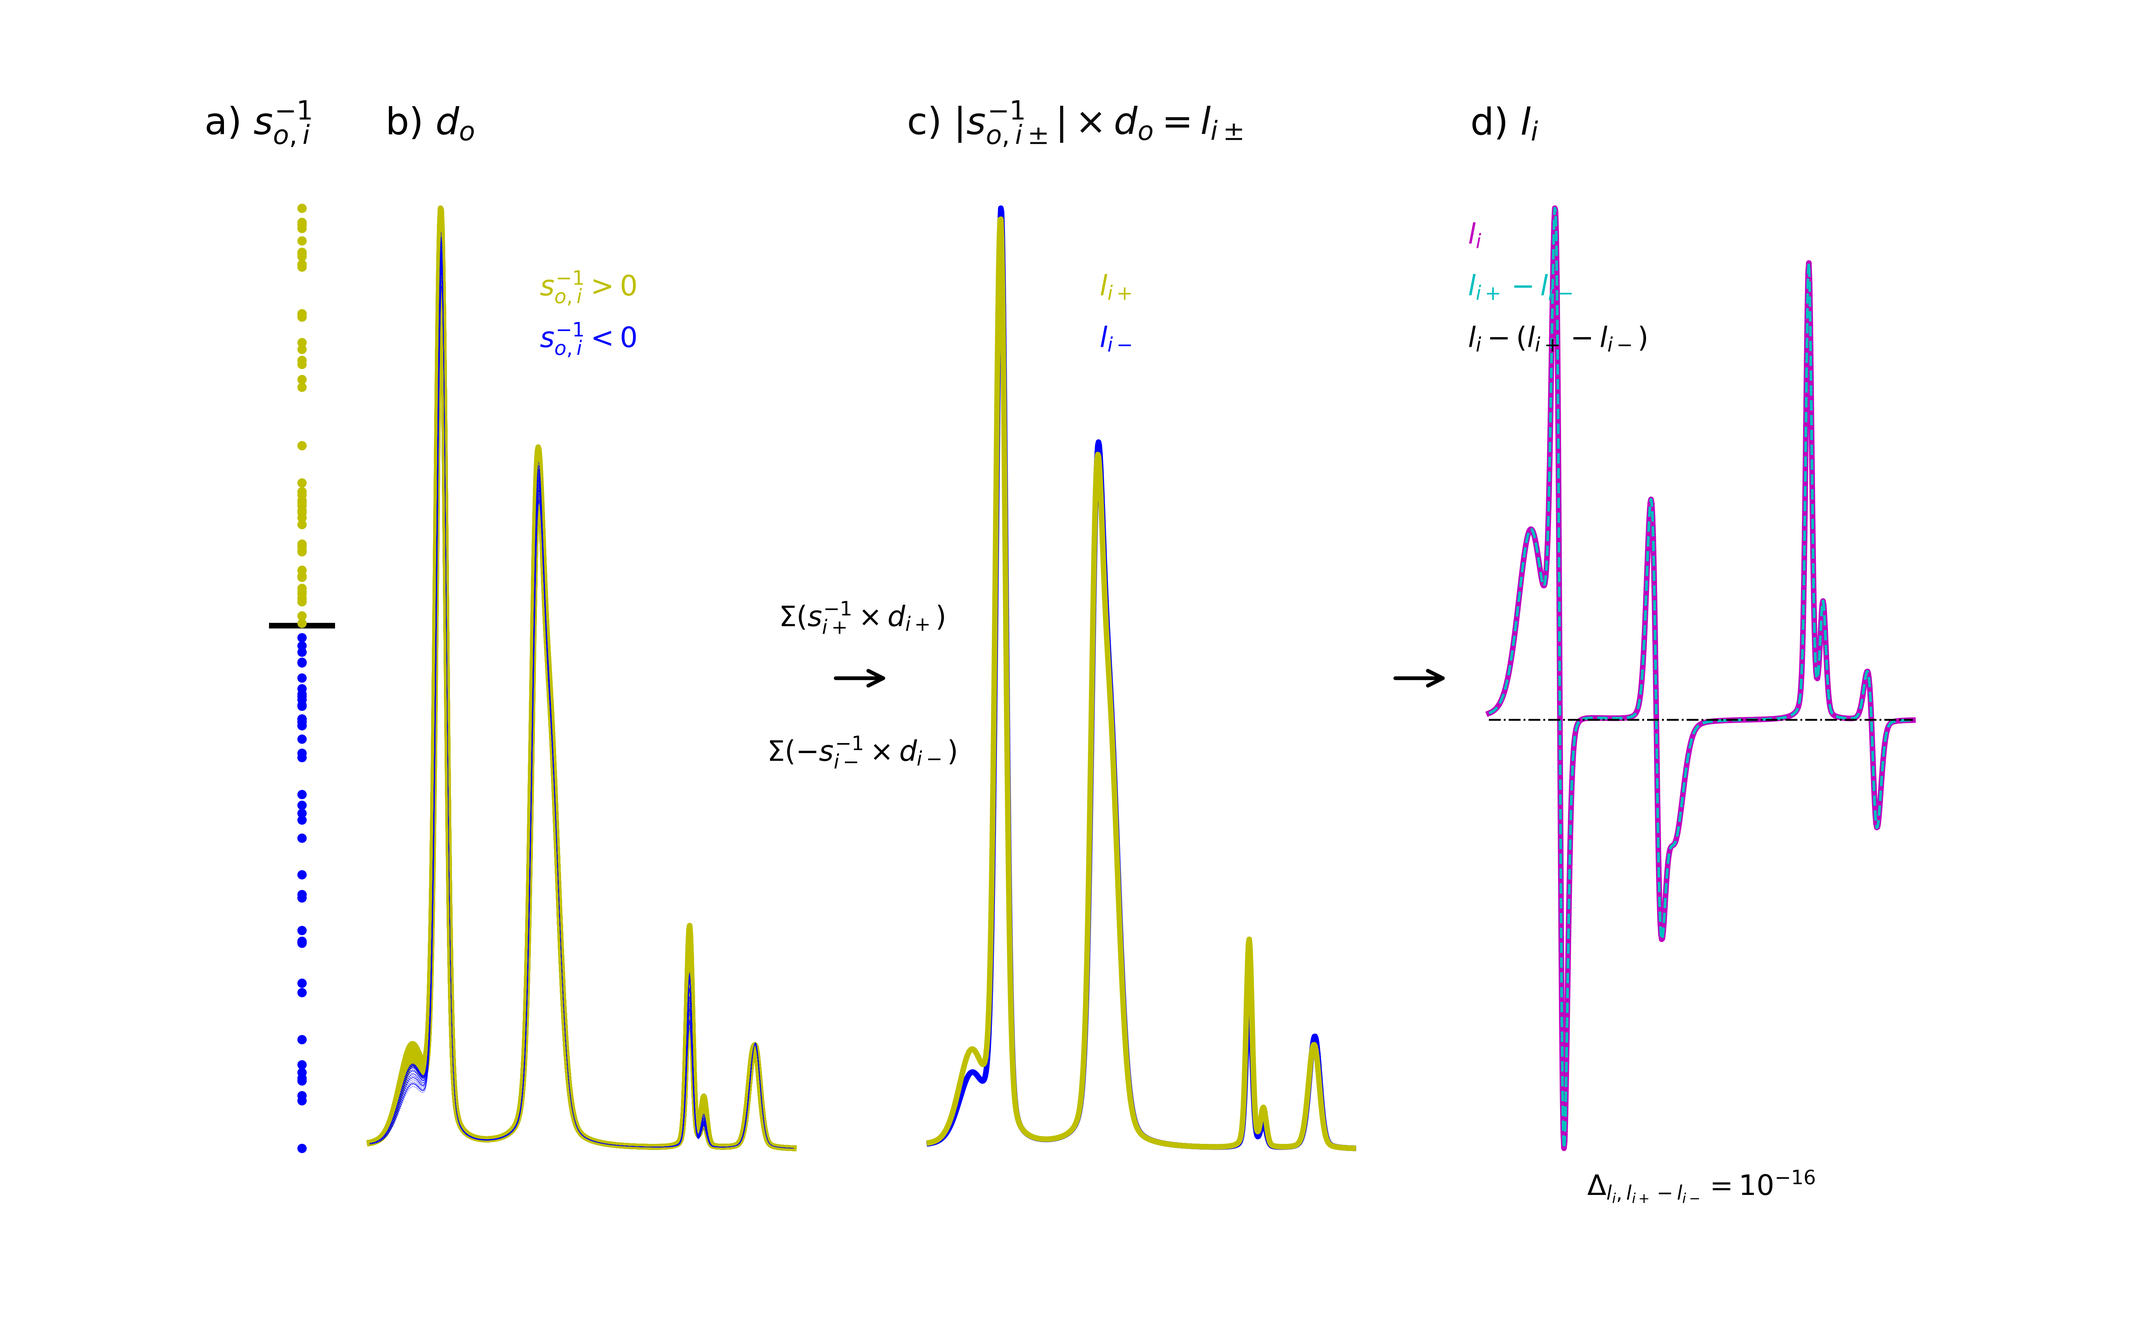
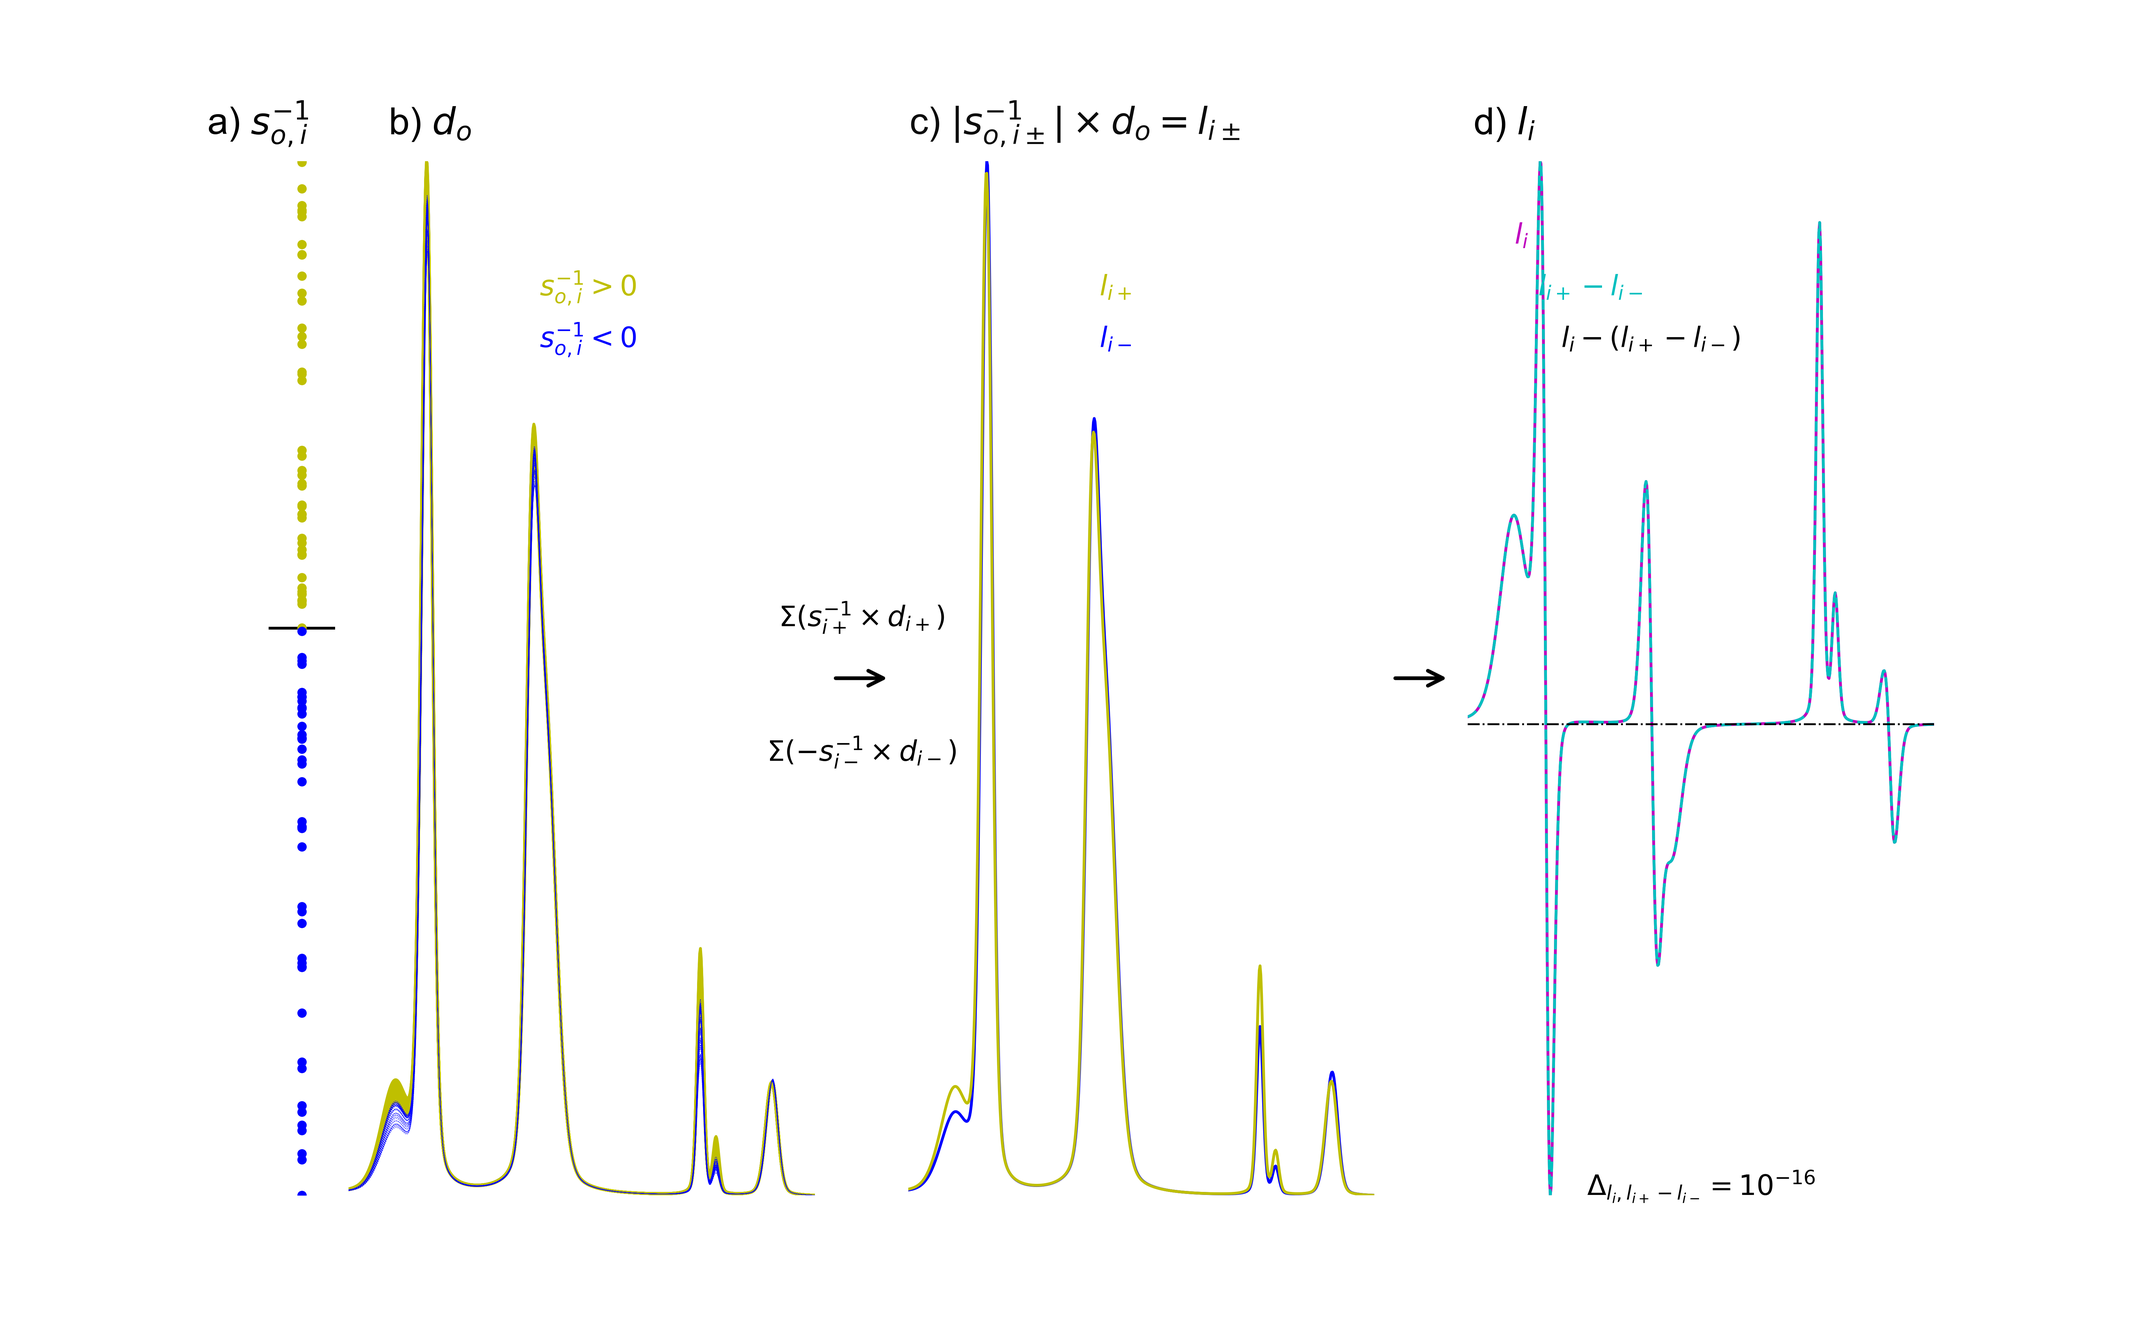
tweaks to figures

diff --git a/src/local_nipals.py b/src/local_nipals.py
@@ -570,7 +570,7 @@ class nipals:
             #                   D           =           S           .           LT
             txt_Positions = [[0.66, 0.9],[0.43, 0.5],[0.47, 0.9],[0.55, 0.5],[0.17, 0.9]]
             matrix_Dims = [ r"$p\times m$" , "", r"$p\times n$" , "" , r"$n\times m$" ]
-            s_Str = ") $S^{-1}$" #overwrite S amtrix name to indicate pseudo-inverse
+            s_Str = ") $S^{+}$" #overwrite S matrix name to indicate pseudo-inverse
         else:
             print(str(arrangement)+" is not a valid option. Use DSLT, SDL or LTSiD") 
         #    return
@@ -580,27 +580,26 @@ class nipals:
         figDSLT, axDSLT = plt.subplots(1, 5,figsize=self.fig_Size)
         axDSLT[v_Ord[0]] = plt.subplot2grid((6, 22), (0, columns_ordered[v_Ord[0]]), colspan=8, rowspan=6)
         axDSLT[v_Ord[1]] = plt.subplot2grid((6, 22), (0, columns_ordered[v_Ord[1]]), colspan=1, rowspan=6)
-        axDSLT[v_Ord[2]] = plt.subplot2grid((6, 22), (1, columns_ordered[v_Ord[2]]), colspan=4, rowspan=4)
+        axDSLT[v_Ord[2]] = plt.subplot2grid((6, 22), (0, columns_ordered[v_Ord[2]]), colspan=4, rowspan=6)
         axDSLT[v_Ord[3]] = plt.subplot2grid((6, 22), (0, columns_ordered[v_Ord[3]]), colspan=1, rowspan=6)
         axDSLT[v_Ord[4]] = plt.subplot2grid((6, 22), (0, columns_ordered[v_Ord[4]]), colspan=8, rowspan=6)
         
         axDSLT[v_Ord[0]].plot(self.pixel_axis[[0,-1]], self.data0lines,  "-.", linewidth=0.5)
         axDSLT[v_Ord[0]].plot(self.pixel_axis, self.data4plot)
 
+        alphas = 0.75*(self.fig_i/np.max(self.fig_i))**0.5 #want biggest alpha to be slightly transparent
         if arrangement == "LTSiD":
             axDSLT[v_Ord[2]].plot(self.iScores4plot.T, ".",
                   transform=transforms.Affine2D().rotate_deg(270) + 
                   axDSLT[v_Ord[2]].transData, markersize=7)
-            axDSLT[v_Ord[2]].plot([0,np.shape(self.fig_i)[0]],self.iScore0lines, "-.",
+            axDSLT[v_Ord[2]].plot([-0.15,np.max(self.fig_i)+0.15],self.iScore0lines, "-.",
                   transform=transforms.Affine2D().rotate_deg(270) + 
                   axDSLT[v_Ord[2]].transData, linewidth=0.5)
             xlims = axDSLT[v_Ord[2]].get_xlim()
-            alphas = 0.5*(self.fig_i/np.max(self.fig_i)) #want biggest alpha to be slightly transparent
+            axDSLT[v_Ord[2]].set_xlim((xlims[0]*1.1,xlims[1]*1.1)) 
             for iP in self.fig_i:
-                axDSLT[v_Ord[2]].add_patch(patches.Rectangle((xlims[0],-iP-0.5) , xlims[1]-xlims[0], 1,
+                axDSLT[v_Ord[2]].add_patch(patches.Rectangle((xlims[0]*1.1,-iP-0.035) , (xlims[1]-xlims[0])*1.1, 0.07,
                                                    alpha = alphas[iP], color = 'w', edgecolor=None, zorder=10))
-            axDSLT[v_Ord[2]].add_patch(patches.Rectangle((xlims[0],-iP-1) , xlims[1]-xlims[0], 0.5,
-                                                   alpha = 1, color = 'w', edgecolor=None, zorder=10))
             axDSLT[v_Ord[4]].annotate(
                 'C=C$_c$',
                 xy=(0.2, 0.04),
@@ -616,7 +615,7 @@ class nipals:
             axDSLT[v_Ord[4]].annotate(
                 'C-H$_2$',
                 xy=(0.2, 0.04),
-                xytext=(0.13, 0.95),
+                xytext=(0.12, 0.97),
                 textcoords="axes fraction",
                 xycoords="axes fraction",
                 fontsize=self.fig_Text_Size*0.75,
@@ -639,7 +638,7 @@ class nipals:
             axDSLT[v_Ord[4]].annotate(
                 'C=C$_c$',
                 xy=(0.2, 0.04),
-                xytext=(0.67, 0.9),
+                xytext=(0.72, 0.9),
                 textcoords="axes fraction",
                 xycoords="axes fraction",
                 fontsize=self.fig_Text_Size*0.75,
@@ -651,7 +650,7 @@ class nipals:
             axDSLT[v_Ord[4]].annotate(
                 'C=C$_t$',
                 xy=(0.2, 0.04),
-                xytext=(0.76, 0.84),
+                xytext=(0.78, 0.8),
                 textcoords="axes fraction",
                 xycoords="axes fraction",
                 fontsize=self.fig_Text_Size*0.75,
@@ -663,7 +662,7 @@ class nipals:
             axDSLT[v_Ord[4]].annotate(
                 'C=O',
                 xy=(0.2, 0.04),
-                xytext=(0.85, 0.825),
+                xytext=(0.9, 0.78),
                 textcoords="axes fraction",
                 xycoords="axes fraction",
                 fontsize=self.fig_Text_Size*0.75,
@@ -673,8 +672,9 @@ class nipals:
                 va="center",
             )        
         else:
-            axDSLT[v_Ord[2]].plot([0,np.shape(self.fig_i)[0]],self.Score0lines, "-.", linewidth=0.5)
             axDSLT[v_Ord[2]].plot(self.Scores4plot.T, ".", markersize=7)
+            axDSLT[v_Ord[2]].plot([-0.15,np.max(self.fig_i)+0.15],self.Score0lines, "-.", linewidth=0.5)
+            axDSLT[v_Ord[2]].set_ylim(axDSLT[v_Ord[2]].get_ylim()[0]*1.1,axDSLT[v_Ord[2]].get_ylim()[1]*1.1)
 # currently have xcf files in GIMP that do the shading. 
 # To apply to an updated figure:
 # 1. paste in the new png generated by Python
@@ -683,8 +683,7 @@ class nipals:
 # 4. for inverse loadings (LTSiD) you need to select the scores area and paste 
 #    in a new layer the flip horizontally
 # 5. export as png to replace the python generated version
-            ylims = axDSLT[v_Ord[2]].get_ylim()
-            alphas = 0.5*(self.fig_i/np.max(self.fig_i)) #want biggest alpha to be slightly transparent
+            ylims = axDSLT[v_Ord[2]].get_ylim()*0.9
             for iP in range(1,np.shape(self.fig_i)[0]):
                 axDSLT[v_Ord[2]].add_patch(patches.Rectangle((iP-0.5,ylims[0]), 1 , ylims[1]-ylims[0],
                                                    alpha = alphas[iP], color = 'w', edgecolor=None, zorder=10))
@@ -709,7 +708,7 @@ class nipals:
         
 
         axDSLT[v_Ord[0]].annotate(
-            sub_Fig[v_Ix[0]]+") $D_{-\mu}$",
+            sub_Fig[v_Ix[0]]+") $D$",
             xy=(txt_Positions[0]),
             xytext=(txt_Positions[0]),
             textcoords="figure fraction",
@@ -758,7 +757,7 @@ class nipals:
         axDSLT[v_Ord[0]].annotate(
             matrix_Dims[v_Ix[0]],
             xy=(0.15, 0.12),
-            xytext=(0.5, 0.9),
+            xytext=(0.5, 1.02),
             xycoords="axes fraction",
             fontsize=self.fig_Text_Size,
             horizontalalignment="center",
@@ -768,20 +767,17 @@ class nipals:
         axDSLT[v_Ord[2]].annotate(
             matrix_Dims[v_Ix[2]],
             xy=(0.52, 0.12),
-            xytext=(0.5, 1),
+            xytext=(0.5, 1.02),
             xycoords="axes fraction",
             fontsize=self.fig_Text_Size,
             horizontalalignment="center",
             va="center",
         )
-        if arrangement == "SDL":
-            dimPos = (0.5,1)
-        else:
-            dimPos=(0.5, 0.92)                
+
         axDSLT[v_Ord[4]].annotate(
             matrix_Dims[v_Ix[4]],
             xy=(0.75, 0.12),
-            xytext=dimPos,
+            xytext=(0.5,1.02),
             xycoords="axes fraction",
             fontsize=self.fig_Text_Size,
             horizontalalignment="center",
@@ -814,7 +810,7 @@ class nipals:
             axDSLT[v_Ord[0]].annotate(
                 "$v=1$",
                 xy=(0.27, 0.12),
-                xytext=(0.17, 0.12),
+                xytext=(0.15, 0.12),
                 textcoords="figure fraction",
                 xycoords="figure fraction",
                 arrowprops=dict(facecolor="black",arrowstyle="->",
@@ -860,7 +856,7 @@ class nipals:
             axDSLT[v_Ord[2]].annotate(
                 "$i=1$",
                 xy=(0.55, 0.12),
-                xytext=(0.5, 0.12),
+                xytext=(0.48, 0.12),
                 textcoords="figure fraction",
                 xycoords="figure fraction",
                 arrowprops=dict(facecolor="black",arrowstyle="->",
@@ -884,8 +880,8 @@ class nipals:
             
             axDSLT[v_Ord[4]].annotate(
                 "$i=1$",
-                xy=(0.65, 0.15),
-                xytext=(0.65, 0.22),
+                xy=(0.62, 0.15),
+                xytext=(0.62, 0.22),
                 textcoords="figure fraction",
                 xycoords="figure fraction",
                 arrowprops=dict(facecolor="black",arrowstyle="->",
@@ -896,8 +892,8 @@ class nipals:
             )
             axDSLT[v_Ord[4]].annotate(
                 "$i=p$",
-                xy=(0.65, 0.14),
-                xytext=(0.65, 0.14),
+                xy=(0.62, 0.14),
+                xytext=(0.62, 0.14),
                 textcoords="figure fraction",
                 xycoords="figure fraction",
                 fontsize=self.fig_Text_Size,
@@ -907,7 +903,7 @@ class nipals:
             axDSLT[v_Ord[4]].annotate(
                 "$v=1$",
                 xy=(0.78, 0.12),
-                xytext=(0.68, 0.12),
+                xytext=(0.645, 0.12),
                 textcoords="figure fraction",
                 xycoords="figure fraction",
                 arrowprops=dict(facecolor="black",arrowstyle="->",
@@ -1316,7 +1312,7 @@ class nipals:
             - offset / 4,
             "k--", linewidth=1,
         )
-        axsldiRes[0].legend(("$d_{max}$", "$d_{zero}$", "$d_{min}$", r"$l_i\times d_{o}$"))
+        axsldiRes[0].legend(("$d_{max}$", "$d_{zero}$", "$d_{min}$", r"$s_o \times l_i$"))
 
         axsldiRes[2].plot(
             self.pixel_axis,
@@ -1341,7 +1337,7 @@ class nipals:
         axsldiRes[2].set_ylim(axsldiRes[0].get_ylim())
         
         axsldiRes[0].annotate(
-            "a) Data & PC"+str(component_index)+" loading weighted data",
+            "a) Data & PC"+str(component_index)+" score weighted loading",
             xy=(0.2, 0.95),
             xytext=(0.3, 0.95),
             textcoords="figure fraction",
@@ -1351,24 +1347,24 @@ class nipals:
         )
         axsldiRes[1].annotate(
             "",
-            xy=(0.54, 0.5),
-            xytext=(0.46, 0.5),
+            xy=(0.55, 0.5),
+            xytext=(0.47, 0.5),
             xycoords="figure fraction",
             arrowprops=dict(arrowstyle="->", connectionstyle="arc3"),
         )
         axsldiRes[1].annotate(
             r"$d_o-$",
             xy=(0.5, 0.5),
-            xytext=(0.5, 0.52),
+            xytext=(0.51, 0.52),
             xycoords="figure fraction",
             textcoords="figure fraction",
             fontsize=self.fig_Text_Size,
             horizontalalignment="center",
         )
         axsldiRes[1].annotate(
-            r"$(l_i \times d_o)$",
+            r"$(s_o \times l_i)$",
             xy=(0.5, 0.5),
-            xytext=(0.5, 0.46),
+            xytext=(0.51, 0.46),
             xycoords="figure fraction",
             textcoords="figure fraction",
             fontsize=self.fig_Text_Size,
@@ -1801,7 +1797,7 @@ class nipals:
             axlpni[1].annotate(
                 "$s_{o,i}^{-1} >0$",
                 xy=(0.37, 0.8),
-                xytext=(0.41, 0.87),
+                xytext=(0.4, 0.84),
                 xycoords="axes fraction",
                 textcoords="axes fraction",
                 fontsize=self.fig_Text_Size*0.75,
@@ -1811,7 +1807,7 @@ class nipals:
             axlpni[1].annotate(
                 "$s_{o,i}^{-1} <0$",
                 xy=(0.35, 0.78),
-                xytext=(0.41, 0.82),
+                xytext=(0.4, 0.8),
                 xycoords="axes fraction",
                 textcoords="axes fraction",
                 fontsize=self.fig_Text_Size*0.75,
@@ -1822,7 +1818,7 @@ class nipals:
             axlpni[3].annotate(
                 "$l_{i+}$",
                 xy=(0.37, 0.8),
-                xytext=(0.41, 0.87),
+                xytext=(0.4, 0.84),
                 xycoords="axes fraction",
                 textcoords="axes fraction",
                 fontsize=self.fig_Text_Size*0.75,
@@ -1832,7 +1828,7 @@ class nipals:
             axlpni[3].annotate(
                 "$l_{i-}$",
                 xy=(0.35, 0.78),
-                xytext=(0.41, 0.82),
+                xytext=(0.4, 0.8),
                 xycoords="axes fraction",
                 textcoords="axes fraction",
                 fontsize=self.fig_Text_Size*0.75,
@@ -1842,54 +1838,37 @@ class nipals:
 
 
 #            ylim = np.max(pnegative_sum)
-            axlpni[5].annotate(
-                "$l_i$",
-                xy=(0.1, 0.9),
-                xytext=(0, 0.92),
-                xycoords="axes fraction",
-                textcoords="axes fraction",
-                fontsize=self.fig_Text_Size*0.75,
-                horizontalalignment="left",
-                color="m",
-            )
-            axlpni[5].annotate(
-                "$l_{i+}-l_{i-}$",
-                xy=(0.1, 0.9),
-                xytext=(0, 0.87),
-                xycoords="axes fraction",
-                textcoords="axes fraction",
-                fontsize=self.fig_Text_Size*0.75,
-                horizontalalignment="left",
-                color="c",
-            )
-            axlpni[5].annotate(
-                "$l_i-(l_{i+}-l_{i-})$",
-                xy=(0.1, 0.9),
-                xytext=(0, 0.82),
-                xycoords="axes fraction",
-                textcoords="axes fraction",
-                fontsize=self.fig_Text_Size*0.75,
-                horizontalalignment="left",
-                color="k",
-            )
+            axlpni[5].legend(("$l_i$","$l_{i+}-l_{i-}$","$l_i-(l_{i+}-l_{i-})$"),
+                             loc=(0.22,0.78),
+                             fontsize=self.fig_Text_Size*0.75)
             totdiff = "{:.0f}".format(
                 np.log10(np.mean(np.abs(self.spectral_loading[component_array_index, :] - pnegative_sum)))
             )
             axlpni[5].annotate(
-                "$\Delta_{l_i,l_{i+}-l_{i-}}=10^{" + totdiff + "}$",
+                "$\Delta_{l_i,(l_{i+}-l_{i-})}$",
                 xy=(0.1, 0.9),
-                xytext=(0.5, 0),
+                xytext=(0.42, 0.54),
                 xycoords="axes fraction",
                 textcoords="axes fraction",
-                fontsize=self.fig_Text_Size*0.75,
-                horizontalalignment="center",
+                fontsize=self.fig_Text_Size,
+                horizontalalignment="left",
+                color="k",
+            )
+            axlpni[5].annotate(
+                "$=10^{" + totdiff + "}$",
+                xy=(0.1, 0.9),
+                xytext=(0.46, 0.5),
+                xycoords="axes fraction",
+                textcoords="axes fraction",
+                fontsize=self.fig_Text_Size,
+                horizontalalignment="left",
                 color="k",
             )
 
             axlpni[2].annotate(
                 r"$\Sigma(s_{i+}^{-1} \times d_{i+})$",
                 xy=(0, 0.5),
-                xytext=(0.5, 0.55),
+                xytext=(0.5, 0.53),
                 textcoords="axes fraction",
                 fontsize=self.fig_Text_Size*0.75,
                 horizontalalignment="center",
@@ -1897,7 +1876,7 @@ class nipals:
             axlpni[2].annotate(
                 r"$\Sigma(-s_{i-}^{-1} \times d_{i-})$",
                 xy=(0, 0.5),
-                xytext=(0.5, 0.42),
+                xytext=(0.5, 0.44),
                 textcoords="axes fraction",
                 fontsize=self.fig_Text_Size*0.75,
                 horizontalalignment="center",

diff --git a/src/graphicalPCA.py b/src/graphicalPCA.py
@@ -432,6 +432,28 @@ class graphicalPCA:
 
 ### ***   Start  Interpretation   ***
 
+### ***   START Positive Negative   ***
+# scaling factor calculated for subtracting the common signal from the positive
+# and negative constituents of a PC. Use non-mean centerd data for clarity
+        nPC = 4
+        pcaNonMC = npls.nipals(
+            X_data = data,
+            maximum_number_PCs = nPC,
+            maximum_iterations_PCs = 25,
+            iteration_tolerance = 0.000000000001,
+            preproc = "NA",
+            pixel_axis = wavelength_axis,
+            spectral_weights = molar_profile,
+            min_spectral_values = min_data,
+        )
+        pcaNonMC.figure_Settings(frmt='svg')
+# generate subtraction figures for positive vs negative score weighted sums.
+        pcaNonMC.calc_Constituents(nPC)
+        component_index = 2 #PC1 is not interesting for common signal (there is none, so have component_index>=2)
+        pcaNonMC.figure_lpniScoreEqn(component_index)
+        
+### ***   END  Positive Negative   ***
+
 ### Biplot
 
         figbiplots, axbiplots = plt.subplots(2, 3, figsize=[9,5.3])
@@ -465,7 +487,7 @@ class graphicalPCA:
         axbiplots[1,0].plot(wavelength_axis,pcaMC.spectral_loading[1,:] + lOff,color=[0.3,0.3,0.3])
         axbiplots[1,0].plot(wavelength_axis[[0,-1]],[lOff,lOff],'--',color=[0.6,0.6,0.6]) 
         
-        offset = 5 #spacing between line and annotation
+        offset = 7 #spacing between line and annotation
         for iV in range(len(selvars)):
             p1 = pcaMC.spectral_loading[0,selvars[iV]]*pcaMC.Eigenvalue[0]**0.5
             p2 = pcaMC.spectral_loading[1,selvars[iV]]*pcaMC.Eigenvalue[1]**0.5
